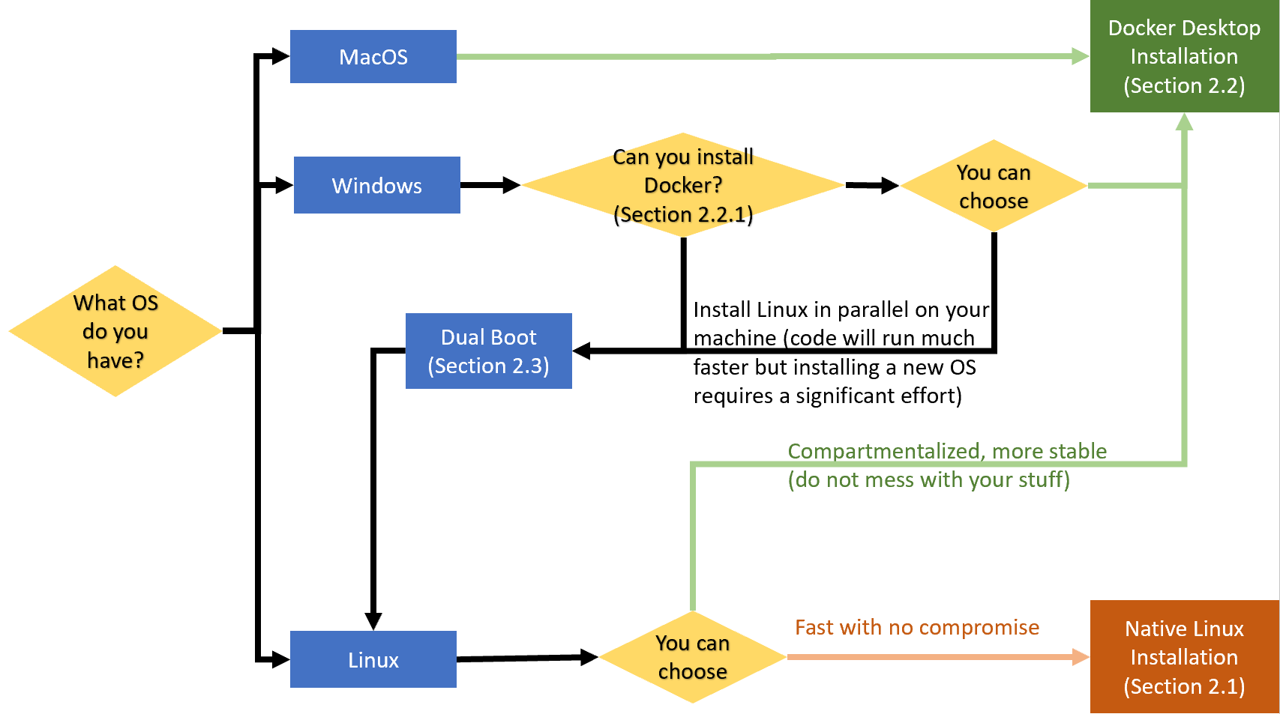
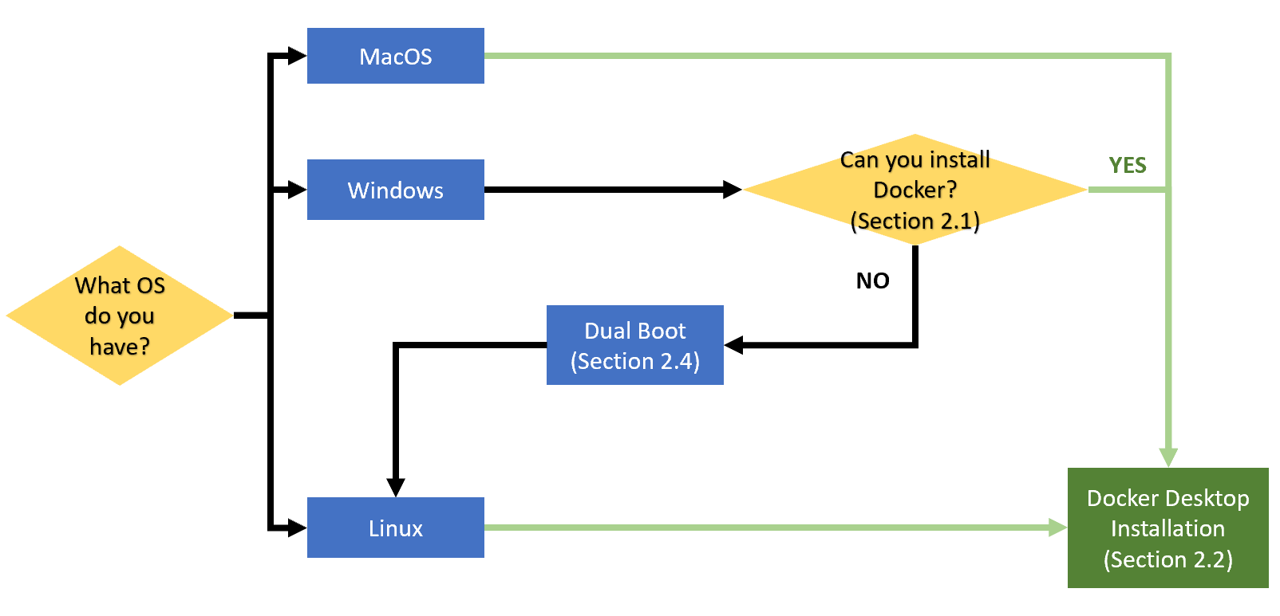
add docker start/stop commands, more detailed 'test the installation', run in detached mode to avoid jumping in the container of first execution

Changed region(s): [[0.0, 0.0, 1.0, 1.0]]

diff --git a/installation-mk.md b/installation-mk.md
@@ -9,6 +9,7 @@
 - `module --help`: shows a list of all the commands
 
 ## 2. Installation
+![Installation Flowchart](./assets/installation-flowchart.png)
 
 ### 2.1. Install Docker
 As a first step, install the [Docker container environment](https://www.docker.com/). You can follow the instruction on the [official guide](https://docs.docker.com/get-docker/). Please read it thoroughly.
@@ -29,12 +30,28 @@ The image is just a snapshot of the state of a Linux OS, it is like a saving poi
 ### 2.3. Use the Docker image 
 To use your image you need to create a Docker container. To make a parallel with virtual machines, the Docker image is like the .iso of the OS, but then you have to install it. We want to create a container with the image we have just downloaded, give it a name (`--name hpc-courses`) to remember its function and share a folder with the host so that we can exchange file easily (`-v /path/to/host/folder:/home/jellyfish/shared-folder`). The complete command is:
 ```bash
-docker run --name hpc-courses -v /path/to/host/folder:/home/jellyfish/shared-folder -it elauksap/hpc_courses
+docker run --name hpc-courses-mk -v /path/to/host/folder:/home/jellyfish/shared-folder -it -d elauksap/hpc_courses
 ```
 
 **WARNING:** to avoid problems `/path/to/host/folder` should not contain white spaces or special characters. For instance you can make your shared folder with the command `mkdir shared-folder` and than `/path/to/host/folder` would be `C:/Users/matteo/shared-folder` on Windows or `~/shared-folder` on Linux-like OS.
 
-You can leave the container and return to your OS with `exit`. If you want to remove a container you creaded for mistake you can run:
+You have now created a container. To turn on the container type:
+```bash
+docker start hpc-courses-mk
+```
+To enter into the container run:
+```bash
+docker exec -it hpc-courses-mk /bin/bash
+```
+You can leave the container and return to your OS with `exit`. You can check your containers and their status with the command
+```bash
+docker ps -a
+```
+If the status of the container is `Up`, you can stop it with
+```bash
+docker stop hpc-courses-mk
+```
+Once you have created your container remember to **do not** use again the commad `run` but just `start`. Otherwise you will create every time a new container. If you want to remove a container you creaded for mistake you can run:
 ```bash
 docker rm <name-of-the-container>
 ```
@@ -61,7 +78,7 @@ After you're done, you can install Docker on the Linux OS, following steps 2.1 t
 
 ## 4. Test the installation
 
-1. Create a file `test-installation.cpp` with content:
+1. Using VS Code, open the shared folder and create a file `test-installation.cpp` with content:
 ```cpp
 #include <Eigen/Eigen>
 #include <iostream>
@@ -73,9 +90,11 @@ int main(int argc, char** argv)
   }
 ```
 
-2. Make sure the Eigen module is loaded: `module load eigen`
+2. Change the current directory to the shared folder `cd /home/jellyfish/shared-folder`.
 
-3. Compile and run the test:
+3. In the container, make sure the Eigen module is loaded: `module load eigen`.
+
+4. Compile and run the test:
 ```bash
 g++ -I ${mkEigenInc} test-installation.cpp -o test-installation
 ./test-installation
